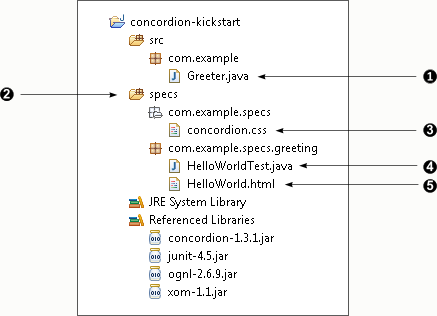
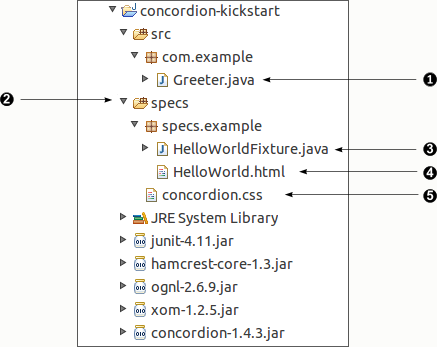
Updated Tutorial to use JUnit 4 syntax

Changed region(s): [[0.0, 0.0, 1.0, 0.9968]]

diff --git a/website/static-content/Tutorial.html b/website/static-content/Tutorial.html
@@ -158,18 +158,17 @@ simple "Hello World!" example and a basic Ant build file.
 </tr>
 <tr>
     <td valign="top" style="padding-right: 10px"><img src="image/shared/3.png"></td>
-    <td valign="top" ><code>"concordion.css"</code> is a stylesheet to make the specs look nice while you're writing them.
+    <td valign="top" ><code>"HelloWorldFixture.java"</code> is a JUnit test. We'll explain how this works, below.
     </td>
 </tr>
 <tr>
     <td valign="top" style="padding-right: 10px"><img src="image/shared/4.png"></td>
-    <td valign="top" ><code>"HelloWorldTest.java"</code> is a JUnit test that extends <code>ConcordionTestCase</code>. We'll explain how this works, below.
+    <td valign="top" ><code>"HelloWorld.html"</code> is the Concordion specification and is processed by the <code>"HelloWorldFixture.java"</code> test. The name of the test fixture and the HTML share the same base name. The test fixture has an optional suffix of <code>"Fixture"</code> or <code>"Test"</code> - for example, it may be named <code>"HelloWorld.java"</code>, <code>"HelloWorldFixture.java"</code> or <code>"HelloWorldTest.java"</code>.
     </td>
 </tr>
 <tr>
     <td valign="top" style="padding-right: 10px"><img src="image/shared/5.png"></td>
-    <td valign="top" ><code>"HelloWorld.html"</code> is the Concordion specification and is processed by the <code>"HelloWorldTest.java"</code> test. The name
-    of the test and the HTML share the same base name.
+    <td valign="top" ><code>"concordion.css"</code> is a stylesheet to make the specs look nice while you're writing them.
     </td>
 </tr>
 </table>
@@ -181,7 +180,7 @@ simple "Hello World!" example and a basic Ant build file.
 
 <ul>
     <li><b>concordion-1.4.3.jar</b></li>
-    <li><b>junit-3.8.2.jar</b> or <b>junit-4.11.jar</b></li>
+    <li><b>junit-4.11.jar</b> (or <b>junit-3.8.2.jar</b>)</li>
     <li><b>hamcrest-core-1.3.jar</b> (required for JUnit 4.11 or later)</li>
     <li><b>ognl-2.6.9.jar</b></li>
     <li><b>xom-1.2.5.jar</b></li>
@@ -262,25 +261,25 @@ simple "Hello World!" example and a basic Ant build file.
 
     <li>
         In the same <code>example</code> package, create a Java file
-        <code>"HelloWorldTest.java"</code> containing:
+        <code>"HelloWorldFixture.java"</code> containing:
 
 <pre class="java">
 <span class="keyword">package</span> example;
 
-<span class="keyword">import</span> org.concordion.integration.junit3.ConcordionTestCase;
+<span class="keyword">import</span> org.concordion.integration.junit4.ConcordionRunner;
+<span class="keyword">import</span> org.junit.runner.RunWith;
 
-<span class="keyword">public class</span> HelloWorldTest <span class="keyword">extends</span> ConcordionTestCase {
-
+@RunWith(ConcordionRunner.class)
+<span class="keyword">public class</span> HelloWorldFixture {
+    
     <span class="keyword">public</span> String getGreeting() {
         <span class="keyword">return</span> <span class="string">"Hello World!"</span>;
     }
 }
 </pre>
 
-    </li>
-
     <li>
-        Now run the <code>HelloWorldTest</code> class using JUnit.
+        Now run the <code>HelloWorldFixture</code> class using JUnit.
     </li>
 </ol>
 
@@ -290,7 +289,7 @@ simple "Hello World!" example and a basic Ant build file.
 </p>
 
 <pre class="console">
-C:\temp\concordion-output\example\HelloWorld.html
+C:\temp\concordion\example\HelloWorld.html
 Successes: 1  Failures: 0
 </pre>
 
@@ -399,9 +398,11 @@ Successes: 1  Failures: 0
 <pre class="java">
 <span class="keyword">package</span> example;
 
-<span class="keyword">import</span> org.concordion.integration.junit3.ConcordionTestCase;
+<span class="keyword">import</span> org.concordion.integration.junit4.ConcordionRunner;
+<span class="keyword">import</span> org.junit.runner.RunWith;
 
-<span class="keyword">public class</span> HelloWorldTest <span class="keyword">extends</span> ConcordionTestCase {
+@RunWith(ConcordionRunner.class)
+<span class="keyword">public class</span> HelloWorldFixture {
 
     <span class="keyword">public</span> String greetingFor(String firstName) {
         <span class="keyword">return</span> <span class="string">"TODO"</span>;
@@ -425,9 +426,11 @@ Successes: 1  Failures: 0
 <pre class="java">
 <span class="keyword">package</span> example;
 
-<span class="keyword">import</span> org.concordion.integration.junit3.ConcordionTestCase;
+<span class="keyword">import</span> org.concordion.integration.junit4.ConcordionRunner;
+<span class="keyword">import</span> org.junit.runner.RunWith;
 
-<span class="keyword">public class</span> HelloWorldTest <span class="keyword">extends</span> ConcordionTestCase {
+@RunWith(ConcordionRunner.class)
+<span class="keyword">public class</span> HelloWorldFixture {
 
     <span class="keyword">public</span> String greetingFor(String firstName) {
         <span class="keyword">return</span> <span class="string">"Hello "</span> + firstName + <span class="string">"!"</span>;
@@ -505,9 +508,11 @@ Successes: 1  Failures: 0
 <pre class="java">
 <span class="keyword">package</span> example;
 
-<span class="keyword">import</span> org.concordion.integration.junit3.ConcordionTestCase;
+<span class="keyword">import</span> org.concordion.integration.junit4.ConcordionRunner;
+<span class="keyword">import</span> org.junit.runner.RunWith;
 
-<span class="keyword">public class</span> HelloWorldTest <span class="keyword">extends</span> ConcordionTestCase {
+@RunWith(ConcordionRunner.class)
+<span class="keyword">public class</span> HelloWorldFixture {
 
     <span class="keyword">public void</span> setCurrentTime(String time) {
         <span class="comment">// TODO</span>
@@ -612,16 +617,18 @@ Successes: 1  Failures: 0
 <p>
     Assuming our HTML file is in the <code>example</code> package and is
     called "SplittingNames.html" then we need a Java fixture called
-    <code>SplittingNamesTest</code>:
+    <code>SplittingNamesTest</code> (or <code>SplittingNamesFixture</code>, or just <code>SplittingNames</code>):
 </p>
 
 
 <pre class="java">
 <span class="keyword">package</span> example;
 
-<span class="keyword">import</span> org.concordion.integration.junit3.ConcordionTestCase;
+<span class="keyword">import</span> org.concordion.integration.junit4.ConcordionRunner;
+<span class="keyword">import</span> org.junit.runner.RunWith;
 
-<span class="keyword">public class</span> SplittingNamesTest <span class="keyword">extends</span> ConcordionTestCase {
+@RunWith(ConcordionRunner.class)
+<span class="keyword">public class</span> SplittingNamesTest {
 
 }
 </pre>
@@ -643,9 +650,11 @@ Successes: 1  Failures: 0
 <pre class="java">
 <span class="keyword">package</span> example;
 
-<span class="keyword">import</span> org.concordion.integration.junit3.ConcordionTestCase;
+<span class="keyword">import</span> org.concordion.integration.junit4.ConcordionRunner;
+<span class="keyword">import</span> org.junit.runner.RunWith;
 
-<span class="keyword">public class</span> SplittingNamesTest <span class="keyword">extends</span> ConcordionTestCase {
+@RunWith(ConcordionRunner.class)
+<span class="keyword">public class</span> SplittingNamesTest {
 
     <span class="keyword">public</span> Result split(String fullName) {
         <span class="keyword">return</span> new Result();
@@ -677,9 +686,11 @@ Successes: 1  Failures: 0
 <pre class="java">
 <span class="keyword">package</span> example;
 
-<span class="keyword">import</span> org.concordion.integration.junit3.ConcordionTestCase;
+<span class="keyword">import</span> org.concordion.integration.junit4.ConcordionRunner;
+<span class="keyword">import</span> org.junit.runner.RunWith;
 
-<span class="keyword">public class</span> SplittingNamesTest <span class="keyword">extends</span> ConcordionTestCase {
+@RunWith(ConcordionRunner.class)
+<span class="keyword">public class</span> SplittingNamesTest {
 
     <span class="keyword">public</span> Result split(String fullName) {
         Result result = <span class="keyword">new</span> Result();
@@ -1047,7 +1058,8 @@ Successes: 1  Failures: 0
 </p>
 
 <pre class="java">
-<span class="keyword">public class</span> PartialMatchesTest <span class="keyword">extends</span> ConcordionTestCase {
+@RunWith(ConcordionRunner.class)
+<span class="keyword">public class</span> PartialMatchesTest {
 
     <span class="keyword">public void</span> setUpUser(String username) {
         <span class="comment">// TODO: Set up user in the system</span>
@@ -1079,7 +1091,8 @@ Successes: 1  Failures: 0
 </p>
 
 <pre class="java">
-<span class="keyword">public class</span> PartialMatchesTest <span class="keyword">extends</span> ConcordionTestCase {
+@RunWith(ConcordionRunner.class)
+<span class="keyword">public class</span> PartialMatchesTest {
 
     <span class="keyword">private</span> Set&lt;String&gt; usernamesInSystem = <span class="keyword">new</span> HashSet&lt;String&gt;();
 
@@ -1141,11 +1154,13 @@ For example:
 </p>
 
 <pre class="java">
-import org.concordion.api.ExpectedToFail;
-import org.concordion.integration.junit3.ConcordionTestCase;
+<span class="keyword">import</span> org.concordion.api.ExpectedToFail;
+<span class="keyword">import</span> org.concordion.integration.junit4.ConcordionRunner;
+<span class="keyword">import</span> org.junit.runner.RunWith;
 
 <b>@ExpectedToFail</b>
-public class GreetingTest extends ConcordionTestCase {
+@RunWith(ConcordionRunner.class)
+<span class="keyword">public class</span> GreetingTest {
 
    public String greetingFor(String firstName) {
         return "TODO";
@@ -1244,30 +1259,52 @@ for an explanation of the semantics of each annotation.
     <p><img style="padding-left: 25px"
         src="image/tutorial/assertTrue/AssertTrueOutput.png" /></p>
 
-<div>
+<p>
     Note that <b>assertEquals</b> should be preferred over <b>assertTrue</b> and <b>assertFalse</b> since, on failure, it displays the actual value rather than "false" or "true".
-</div>
+</p>
 </div>
 
 
 
 
 <div class="feature">
-<h3>Support for JUnit 4.x</h3>
+<h3>JUnit support</h3>
 
-<p>Example syntax:</p>
+<h4>JUnit 3.x</h4>
+<p>
+    To run Concordion with JUnit 3.x, the Concordion fixture must extend <code>ConcordionTestCase</code>. For example:
+</p>
+<pre class="java">
+<span class="keyword">package</span> example;
+
+<b><span class="keyword">import</span> org.concordion.integration.junit3.ConcordionTestCase;</b>
+
+<span class="keyword">public class</span> HelloWorldFixture <b>extends ConcordionTestCase</b> {
+    
+    <span class="keyword">public</span> String getGreeting() {
+        <span class="keyword">return</span> <span class="string">"Hello World!"</span>;
+    }
+}
+</pre>
+
+
+ <h4>JUnit 4.x</h4>
+
+<p>
+    Alternatively, to run Concordion with JUnit 4.5 or later, the Concordion fixture should use the <code>ConcordionRunner</code>. For example:
+</p>
 
 <pre class="java">
-<span class="keyword">package</span> spec.examples;
+<span class="keyword">package</span> example;
 
-<span class="keyword">import</span> org.concordion.integration.junit4.ConcordionRunner;
-<span class="keyword">import</span> org.junit.runner.RunWith;
+<b><span class="keyword">import</span> org.concordion.integration.junit4.ConcordionRunner;
+<span class="keyword">import</span> org.junit.runner.RunWith;</b>
 
-<span class="annotation">@RunWith</span>(ConcordionRunner.<span class="keyword">class</span>)
-<span class="keyword">public class</span> Demo {
+<b><span class="annotation">@RunWith</span>(ConcordionRunner.<span class="keyword">class</span>)</b>
+<span class="keyword">public class</span> HelloWorldFixture {
 
-    <span class="keyword">public</span> String greetingFor(String firstName) {
-        <span class="keyword">return</span> String.format(<span class="string">"Hello %s!"</span>, firstName);
+    <span class="keyword">public</span> String getGreeting() {
+        <span class="keyword">return</span> <span class="string">"Hello World!"</span>;
     }
 }
 </pre>
